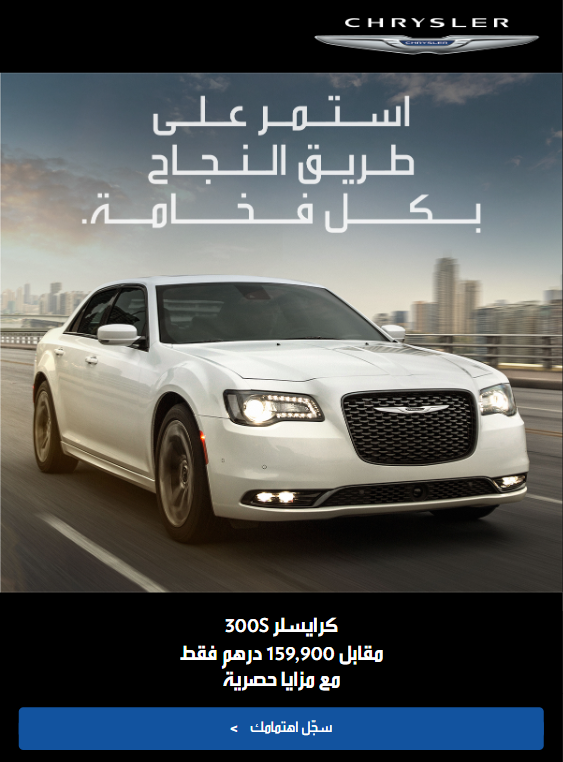
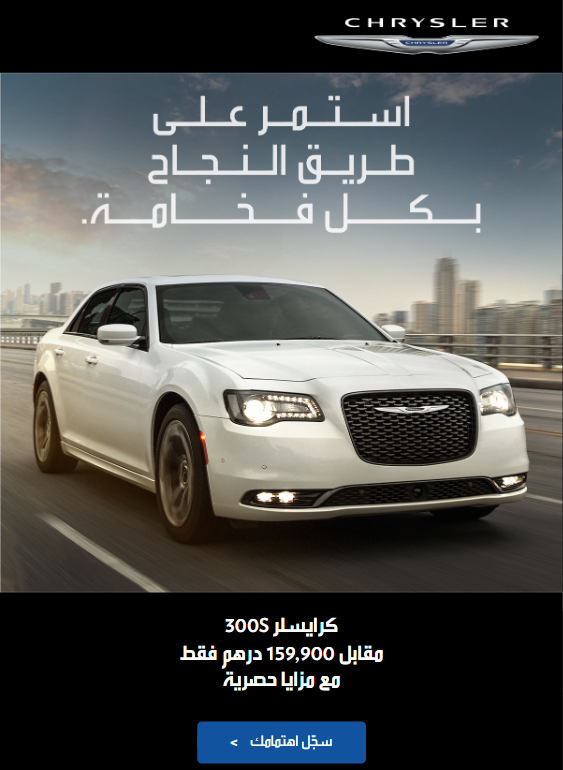
template-1

diff --git a/templates/template-1/index.html b/templates/template-1/index.html
@@ -38,16 +38,11 @@
                 width: 100% !important;
                 padding: 0;
             }
-
-            .deviceWidthLOGO {
-                width: 100% !important;
-                padding: 0;
-            }
         }
 
-        @media only screen and (max-width: 525px) {
-            .deviceWidthLOGO {
-                width: 90% !important;
+        @media only screen and (max-width: 576px) {
+            .deviceWidthcta {
+                width: 40% !important;
                 padding: 0;
             }
         }
@@ -264,7 +259,7 @@
                                                                 <table cellspacing="0" cellpadding="0" border="0"
                                                                     align="center"
                                                                     style="margin:auto;height:45px; width: 30%;"
-                                                                    width="30%" class="deviceWidthLOGO">
+                                                                    width="30%" class="deviceWidthcta">
 
                                                                     <tbody>
 
@@ -470,13 +465,11 @@
                                                                 <a href="tel:123456" target="_blank"
                                                                     style="text-decoration:none;color:#FFFFFF;">تواصل
                                                                     معنا</a>&nbsp;|&nbsp;
-                                                                <a href="#"
-                                                                    target="_blank"
+                                                                <a href="#" target="_blank"
                                                                     style="text-decoration:none;color:#FFFFFF;">الخصوصية
                                                                 </a>&nbsp;|&nbsp;
 
-                                                                <a href="#"
-                                                                    class="appleLinksWhite" target="_blank"
+                                                                <a href="#" class="appleLinksWhite" target="_blank"
                                                                     style="text-decoration:none;color:#FFFFFF;">إلغاء
                                                                     الاشترك</a>
 

diff --git a/index.html b/index.html
@@ -16,14 +16,14 @@
     <section class="grid">
       <a href="templates/template-1/index.html" target="_blank" class="card">
         <img src="./images/template-1.png" alt="Email Template 1" loading="lazy" />
-        <h3>Newsletter Template</h3>
-        <p>640px, responsive, dark/light mode</p>
+        <!-- <h3>Newsletter Template</h3>
+        <p>640px, responsive, dark/light mode</p> -->
       </a>
 
       <a href="email2.html" target="_blank" class="card">
         <img src="./images/template-2.png" alt="Email Template 2" />
-        <h3>Promotional Email</h3>
-        <p>Tested on Litmus, Mailchimp ready</p>
+        <!-- <h3>Promotional Email</h3>
+        <p>Tested on Litmus, Mailchimp ready</p> -->
       </a>
 
       <a href="email3.html" target="_blank" class="card">

diff --git a/style.css b/style.css
@@ -56,9 +56,9 @@
       }
 
       .card {
-        background: var(--dark-color);
+        background: #000;
         border: 2px solid var(--gray-color);
-        padding: 0.75rem;
+        /* padding: 0.75rem; */
         text-align: center;
         transition: all 0.5s ease;
         cursor: pointer;
